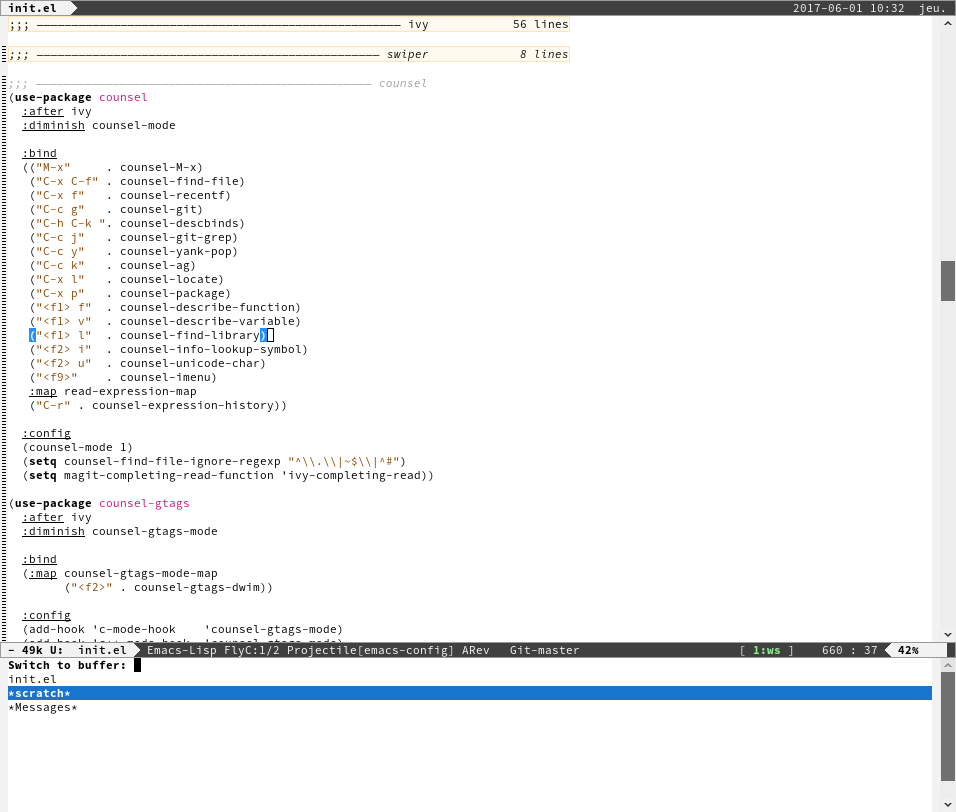
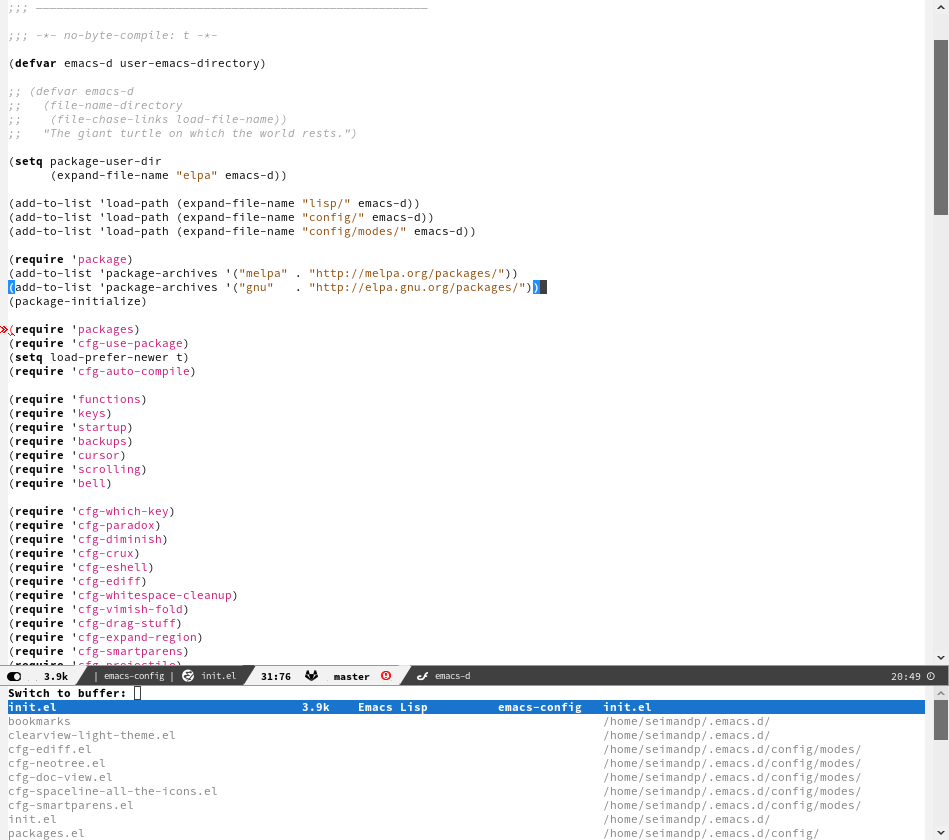
Update README.md and screenshot-emacs.png.

diff --git a/README.md b/README.md
@@ -1,28 +1,25 @@
 # emacs-config
 Yet Another GNU Emacs Configuration.
 
-The whole configuration is contained in the `init.el` file, which
+The main configuration file is `init.el` file, which
 should be placed under `.emacs.d/` in your home directory. It relies
 on [use-package](https://github.com/jwiegley/use-package)
 and [req-package](https://github.com/edvorg/req-package) to manage the
-loading of the packages and their configuration. Make sure you have
-these installed before trying to run this configuration.
+loading of the packages and their configuration.
 
 Several packages are activated if they are detected
 (e.g. [ivy](https://github.com/abo-abo/swiper),
 [projectile](https://github.com/bbatsov/projectile),
-[company](https://github.com/company-mode/company-mode), ...). It also
-uses a custom theme named `clearview-light`, which must also be placed
-under `.emacs.d/` in your home directory. This theme can easily be
-customized using `M-x custom-visit-theme`.
+[company](https://github.com/company-mode/company-mode), ...). The
+configuration of these packages is done in the files located under
+`.emacs.d/config/modes`.
 
-To manage this configuration file more easily, you can
-download [vimish-fold](https://github.com/mrkkrp/vimish-fold). Once
-installed, you can fold the different part of the file using the
-custom function `my/vimish-fold-next-block`. To fold every block in
-one command, you can execute `C-u 100 C-c f b`.
+This configuration also uses a custom theme named `clearview-light`,
+which must also be placed under `.emacs.d/` in your home
+directory. This theme can easily be customized using
+`M-x custom-visit-theme`.
 
 For more details, see the [wiki](../../wiki) (under construction at
-the moment).
+the moment, may be outdated).
 
 ![alt tag](screenshot-emacs.png)
